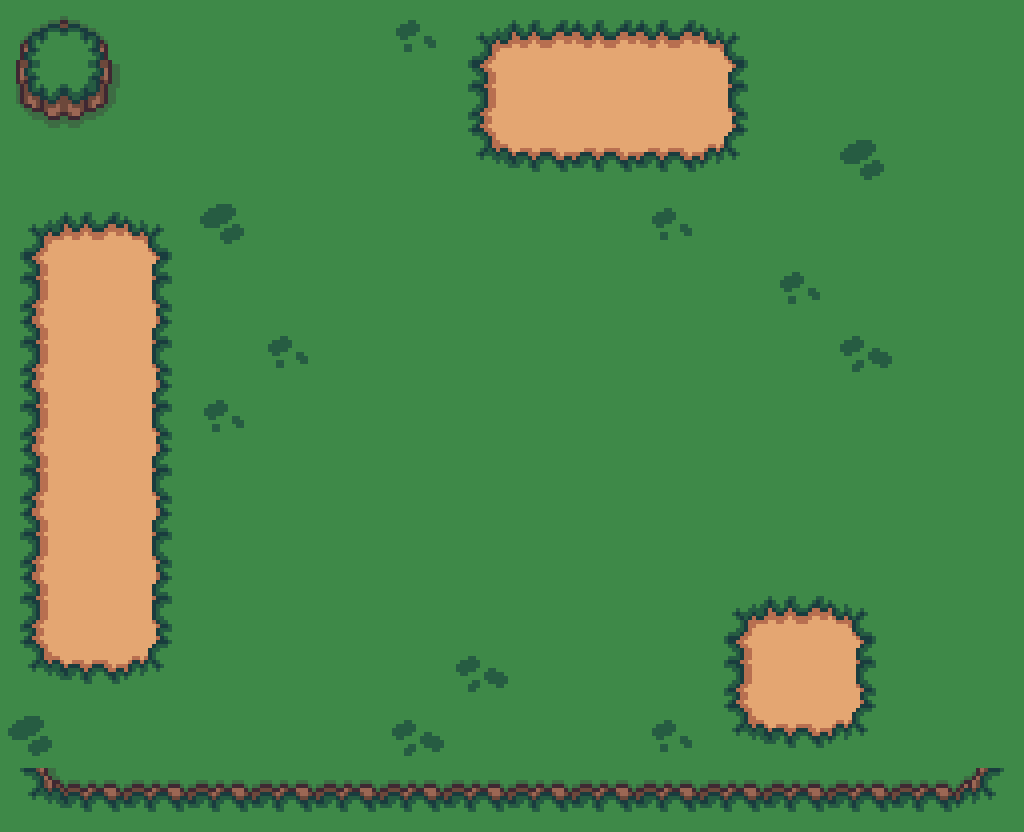
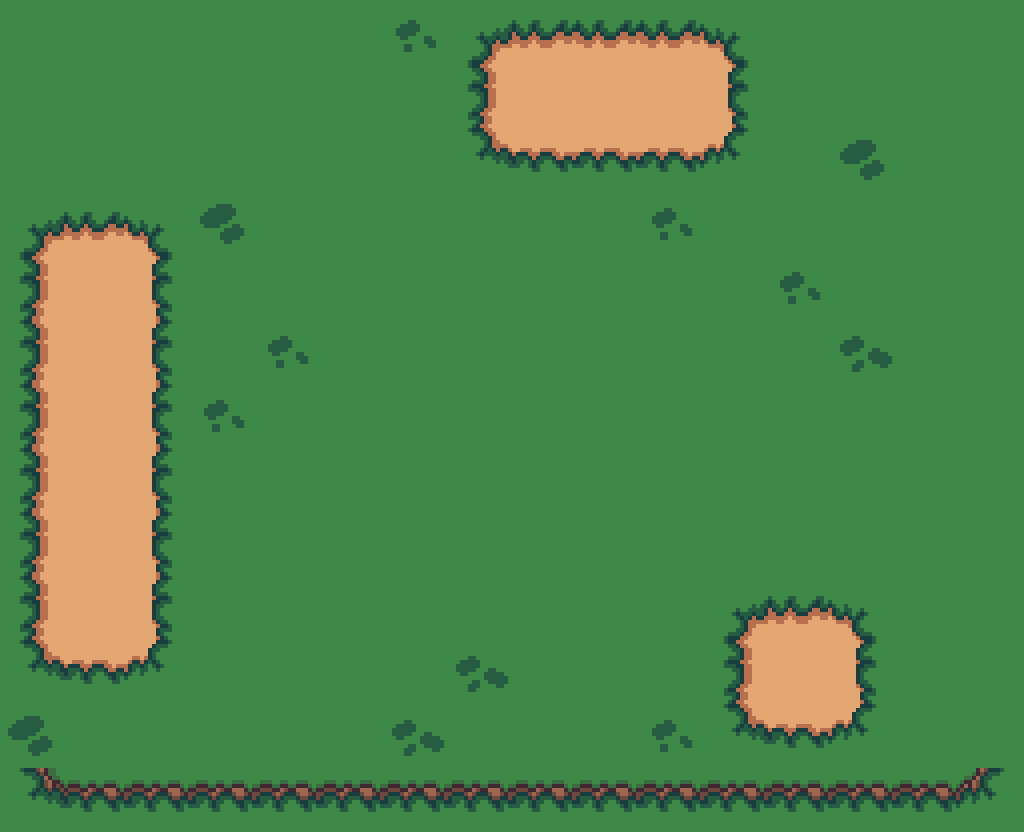
Added Ground Block object implementation logic.

Changed region(s): [[0.0, 0.0, 0.125, 0.1562]]

diff --git a/src/world_objects.c b/src/world_objects.c
@@ -20,6 +20,8 @@ static void xAddObject(World *world, EntityID id, xRectangle source, xRectangle 
     if (id != ENTITY_EMPTY_OBJECT)
         object->texture = world->spriteSheet;
 
+    // ##### ADD EMTPY OBJECT SPRITESHEET #####
+
     object->source = source;
     object->dest = dest;
 
@@ -55,6 +57,7 @@ static void xSetFadeCollision(xGameObject *object, EntityID id)
             break;
 
             case ENTITY_POND_6x6:
+            case ENTITY_GROUND_BLOCK:
             case ENTITY_EMPTY_OBJECT:
                 object->fadeable = false;
                 object->collidable = true;
@@ -72,6 +75,7 @@ static bool xAlwaysBelowPlayer(EntityID id)
     switch (id)
     {
         case ENTITY_POND_6x6:
+        case ENTITY_GROUND_BLOCK:
             return true;
         break;
 
@@ -298,6 +302,22 @@ void xAddPond6x6(World *world, xRectangle dest)
         dest.y + 32,
         64 * 5,
         64 * 4
+    };
+
+    xAddObject(world, id, source, dest, collider);
+}
+
+void xAddGroundBlock(World *world, xRectangle dest)
+{
+    xRectangle source = RECT_GROUND_BLOCK;
+    EntityID id = ENTITY_GROUND_BLOCK;
+
+    xRectangle collider =
+    {
+        dest.x + 16,
+        dest.y + 20,
+        dest.width - 32,
+        dest.height - 28
     };
 
     xAddObject(world, id, source, dest, collider);

diff --git a/src/forest.c b/src/forest.c
@@ -35,6 +35,11 @@ static const xVector2 posPonds[] =
     { 320, 256 },
 };
 
+static const xVector2 posGroundBlocks[] =
+{
+    { 0, 0 },
+};
+
 static const xVector2 posLogs[] =
 {
     { 796, 84 },
@@ -177,7 +182,6 @@ static void xLoadTreesStump(World *world)
 
 static void xLoadPond6x6(World *world)
 {
-
     xRectangle dest = 
     {
         posPonds[0].x,
@@ -187,6 +191,19 @@ static void xLoadPond6x6(World *world)
     };
 
     xAddPond6x6(world, dest);
+}
+
+static void xLoadGroundBlock(World *world)
+{
+    xRectangle dest = 
+    {
+        posGroundBlocks[0].x,
+        posGroundBlocks[0].y,
+        RECT_GROUND_BLOCK.width,
+        RECT_GROUND_BLOCK.height
+    };
+    
+    xAddGroundBlock(world, dest);
 }
 
 static void xLoadScreenBoundary(World *world)
@@ -212,6 +229,7 @@ void xLoadForestMap(World *world)
 {
     xLoadScreenBoundary(world);
     xLoadPond6x6(world);
+    xLoadGroundBlock(world);
     xLoadTreesLarge1(world);
     xLoadTreesSmall1(world);
     xLoadMushrooms(world);

diff --git a/src/render.c b/src/render.c
@@ -124,8 +124,8 @@ static void xRenderObject(xGameObject *object, xColor tint)
     }
 
     DrawTexturePro(object->texture, drawSource, object->dest, ZERO_POSITION, 0.0f, tint);
-    // DrawRectangleLinesEx(object->collider, 1.0f, RED);
-    // DrawRectangleLinesEx(object->dest, 1.0f, RED);
+    DrawRectangleLinesEx(object->collider, 1.0f, RED);
+    DrawRectangleLinesEx(object->dest, 1.0f, RED);
 }
 
 static xRectangle xGetFadeArea(xGameObject *object)

diff --git a/include/world_objects.h b/include/world_objects.h
@@ -20,6 +20,8 @@ void xAddMushroom(World *world, xRectangle dest);
 
 void xAddPond6x6(World *world, xRectangle dest);
 
+void xAddGroundBlock(World *world, xRectangle dest);
+
 void xAddEmptyObject(World *world, xRectangle dest);
 
 #endif

diff --git a/src/sprites.c b/src/sprites.c
@@ -141,4 +141,12 @@ const xRectangle RECT_POND =
     64 * 5
 };
 
+const xRectangle RECT_GROUND_BLOCK =
+{
+    64 * 8,
+    64 * 14,
+    64 * 2,
+    64 * 2
+};
+
 #pragma endregion

diff --git a/include/sprites.h b/include/sprites.h
@@ -80,6 +80,8 @@ extern const xRectangle RECT_MUSHROOM;
 
 extern const xRectangle RECT_POND;
 
+extern const xRectangle RECT_GROUND_BLOCK;
+
 #pragma endregion
 
 #endif

diff --git a/include/world.h b/include/world.h
@@ -47,6 +47,8 @@ typedef enum EntityID
 
     ENTITY_POND_6x6,
 
+    ENTITY_GROUND_BLOCK,
+
     ENTITY_EMPTY_OBJECT
 
 } EntityID;
